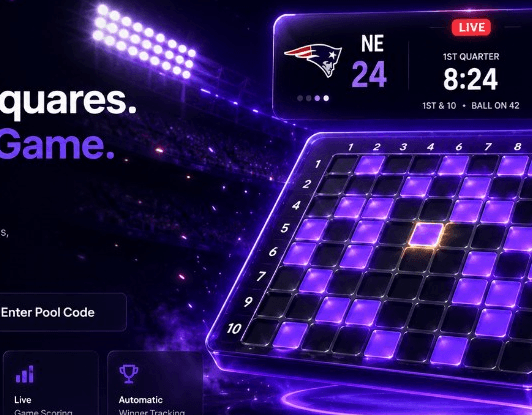
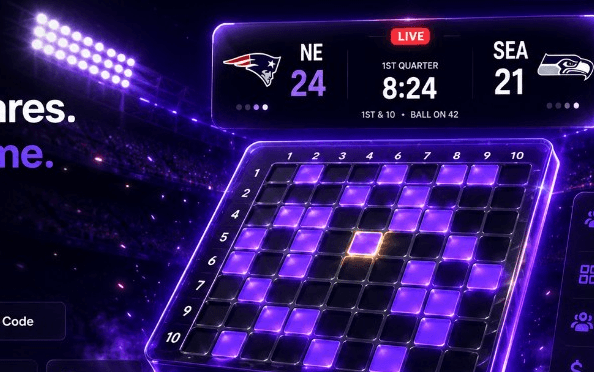
Restore hero copy over cropped showcase background.
Re-center the logo, headline, and CTAs on the stadium hero while tightening the crop so the full scoreboard and squares board stay visible behind the copy.

diff --git a/components/landing/HeroSection.tsx b/components/landing/HeroSection.tsx
@@ -1,21 +1,73 @@
 "use client";
 
 import { useRef, type CSSProperties } from "react";
+import { ChevronRight, Radio } from "lucide-react";
+import Logo from "@/components/Logo";
 import HeroBackground from "@/components/landing/hero/HeroBackground";
+import { Button } from "@/components/ui/Button";
 import { useHeroParallax } from "@/lib/motion/useHeroParallax";
 
 export default function HeroSection() {
   const sectionRef = useRef<HTMLElement>(null);
   useHeroParallax(sectionRef);
 
+  function scrollTo(id: string) {
+    document.getElementById(id)?.scrollIntoView({ behavior: "smooth" });
+  }
+
   return (
     <section
       ref={sectionRef}
-      className="hero-section hero-v2 hero-showcase-only relative overflow-hidden"
-      aria-label="SquareBoards live squares board"
+      className="hero-section hero-v2 hero-showcase-bg relative overflow-hidden min-h-[calc(100dvh-3.5rem)]"
+      aria-label="SquareBoards hero"
       style={{ "--hero-parallax": "0" } as CSSProperties}
     >
       <HeroBackground />
+
+      <div className="hero-showcase-overlay relative z-10 w-full px-4 sm:px-6 pt-8 sm:pt-10 lg:pt-12 pb-6">
+        <div className="hero-v2-copy hero-v2-copy-over-art landing-fade-up mx-auto">
+          <div className="hero-logo-glow flex justify-center mb-5 sm:mb-6">
+            <Logo href="/" className="text-xl sm:text-2xl hero-logo-breathe" />
+          </div>
+
+          <div className="flex justify-center mb-4 sm:mb-5">
+            <div className="hero-live-pill">
+              <Radio className="w-3.5 h-3.5 text-sb-success" strokeWidth={2.5} />
+              <span>Live Sports Squares</span>
+              <span className="hero-live-pill-dot" aria-hidden />
+            </div>
+          </div>
+
+          <h1 className="hero-headline hero-headline-v2 text-center">
+            <span className="block">Pick Your Squares.</span>
+            <span className="block hero-headline-accent">Watch the Game.</span>
+            <span className="block">Win Big.</span>
+          </h1>
+
+          <p className="hero-subhead hero-subhead-v2 text-center mx-auto">
+            Buy your lucky squares, follow live scores, and compete for every
+            quarter using secure online payments.
+          </p>
+
+          <div className="hero-ctas hero-ctas-v2 justify-center mb-0">
+            <Button
+              variant="primary"
+              className="hero-btn-premium w-full sm:w-auto min-w-[200px] group"
+              onClick={() => scrollTo("pools")}
+            >
+              Play Now
+              <ChevronRight className="w-4 h-4 ml-1 transition-transform group-hover:translate-x-1" />
+            </Button>
+            <Button
+              variant="secondary"
+              className="hero-btn-secondary-v2 w-full sm:w-auto min-w-[200px]"
+              onClick={() => scrollTo("join")}
+            >
+              Enter Pool Code
+            </Button>
+          </div>
+        </div>
+      </div>
     </section>
   );
 }

diff --git a/app/globals.css b/app/globals.css
@@ -326,50 +326,31 @@ body {
 }
 
 /* Hero — cropped showcase art (scoreboard + board + stadium only) */
-.hero-showcase-only {
-  min-height: min(92vh, 820px);
-  min-height: min(92dvh, 820px);
-}
-
-@media (min-width: 640px) {
-  .hero-showcase-only {
-    min-height: min(88vh, 900px);
-    min-height: min(88dvh, 900px);
-  }
-}
-
-@media (min-width: 1024px) {
-  .hero-showcase-only {
-    min-height: min(86vh, 960px);
-    min-height: min(86dvh, 960px);
-  }
+.hero-showcase-bg {
+  min-height: calc(100dvh - 3.5rem);
 }
 
 .hero-showcase-image {
-  object-position: 58% 44%;
+  object-fit: contain;
+  object-position: 50% 100%;
   z-index: 0;
 }
 
-@media (min-width: 640px) {
-  .hero-showcase-image {
-    object-position: 56% 44%;
-  }
+.hero-showcase-overlay {
+  pointer-events: none;
 }
 
-@media (min-width: 1024px) {
-  .hero-showcase-image {
-    object-position: 54% 46%;
-  }
+.hero-showcase-overlay .hero-v2-copy-over-art {
+  pointer-events: auto;
+  margin-bottom: 0;
+  max-width: 38rem;
 }
 
-.hero-showcase-left-fade {
-  z-index: 1;
-  background: linear-gradient(
-    90deg,
-    var(--sb-bg) 0%,
-    rgba(3, 7, 18, 0.85) 8%,
-    transparent 22%
-  );
+.hero-v2-copy-over-art .hero-headline,
+.hero-v2-copy-over-art .hero-subhead {
+  text-shadow:
+    0 2px 20px rgba(0, 0, 0, 0.85),
+    0 0 40px rgba(3, 7, 18, 0.65);
 }
 
 .hero-showcase-top-fade {
@@ -377,7 +358,7 @@ body {
   background: linear-gradient(
     180deg,
     var(--sb-bg) 0%,
-    rgba(3, 7, 18, 0.75) 45%,
+    rgba(3, 7, 18, 0.5) 55%,
     transparent 100%
   );
 }

diff --git a/components/landing/hero/HeroBackground.tsx b/components/landing/hero/HeroBackground.tsx
@@ -4,7 +4,7 @@ import Image from "next/image";
 
 export default function HeroBackground() {
   return (
-    <div className="hero-bg absolute inset-0 overflow-hidden pointer-events-none" aria-hidden>
+    <div className="hero-bg absolute inset-0 overflow-hidden pointer-events-none bg-sb-bg" aria-hidden>
       <Image
         src="/hero/hero-showcase.png"
         alt=""
@@ -16,10 +16,7 @@ export default function HeroBackground() {
       />
 
       {/* Soft top blend under site navbar */}
-      <div className="hero-showcase-top-fade absolute inset-x-0 top-0 h-20 sm:h-24" />
-
-      {/* Hide any leftover mockup text on the crop edge */}
-      <div className="hero-showcase-left-fade absolute inset-y-0 left-0 w-24 sm:w-32" />
+      <div className="hero-showcase-top-fade absolute inset-x-0 top-0 h-28 sm:h-32" />
 
       {/* Fade into page content below hero */}
       <div className="hero-showcase-bottom-fade absolute bottom-0 left-0 right-0 h-40 sm:h-52" />
